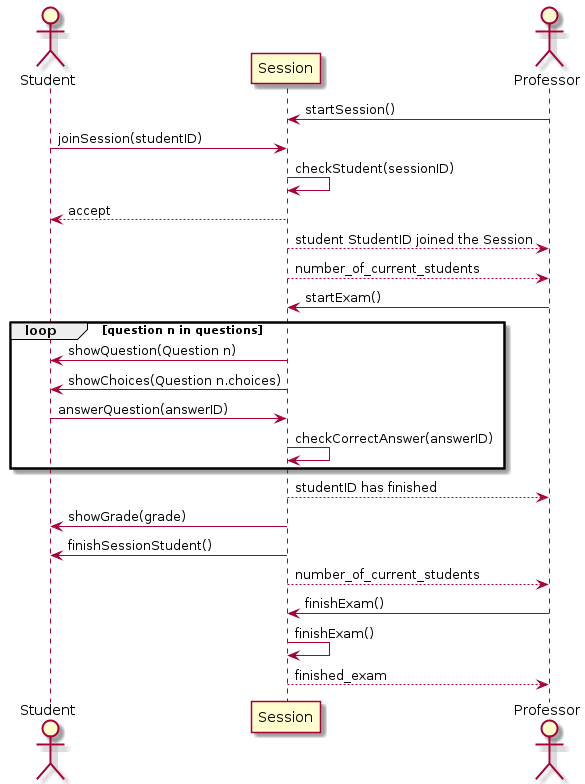
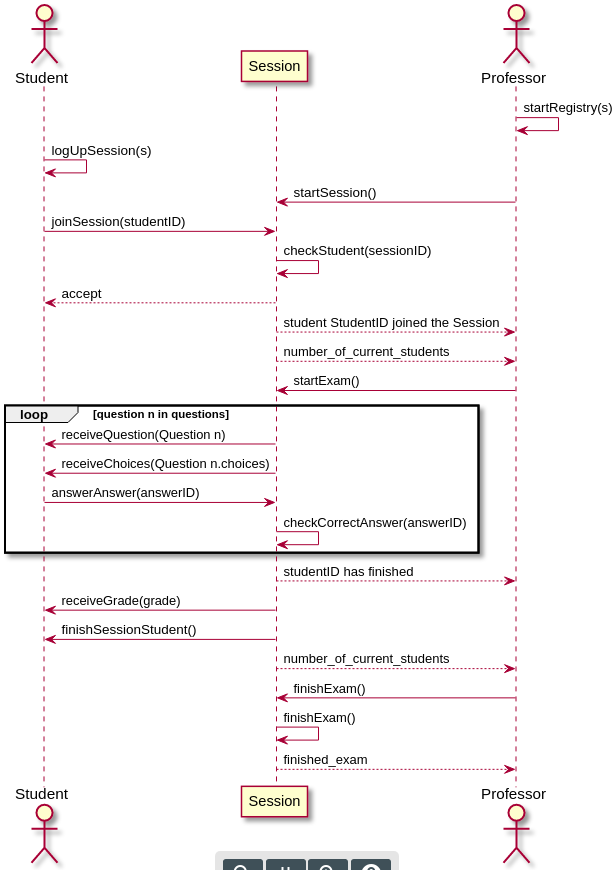
UMLs updated

diff --git a/common/src/common/MultipleChoiceServer.java b/common/src/common/MultipleChoiceServer.java
@@ -6,5 +6,5 @@ import java.rmi.RemoteException;
 public interface MultipleChoiceServer extends Remote {
     void joinSession(int studentId) throws RemoteException;
 
-    void receiveQuestion(int answerId) throws RemoteException;
+    void receiveAnswer(int answerId) throws RemoteException;
 }

diff --git a/common/src/common/MultipleChoiceClient.java b/common/src/common/MultipleChoiceClient.java
@@ -1,8 +1,11 @@
 package common;
 
+import common.data.Choice;
+import common.data.Question;
+
 import java.rmi.Remote;
 import java.rmi.RemoteException;
-
+import java.util.List;
 
 
 public interface MultipleChoiceClient extends Remote {
